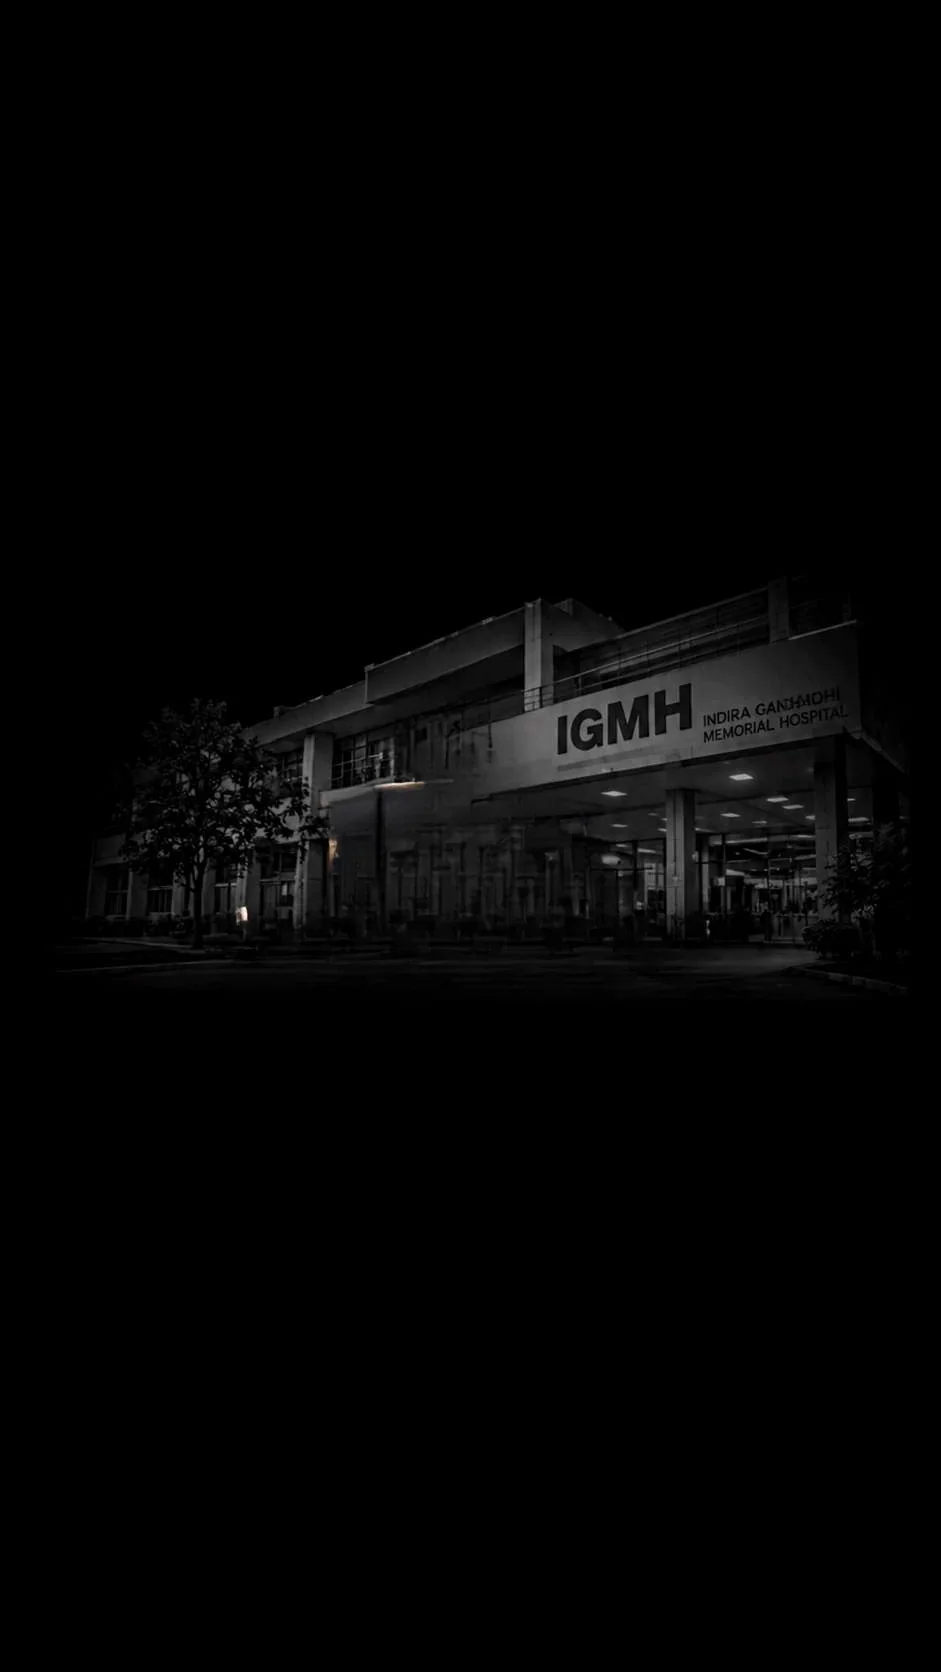
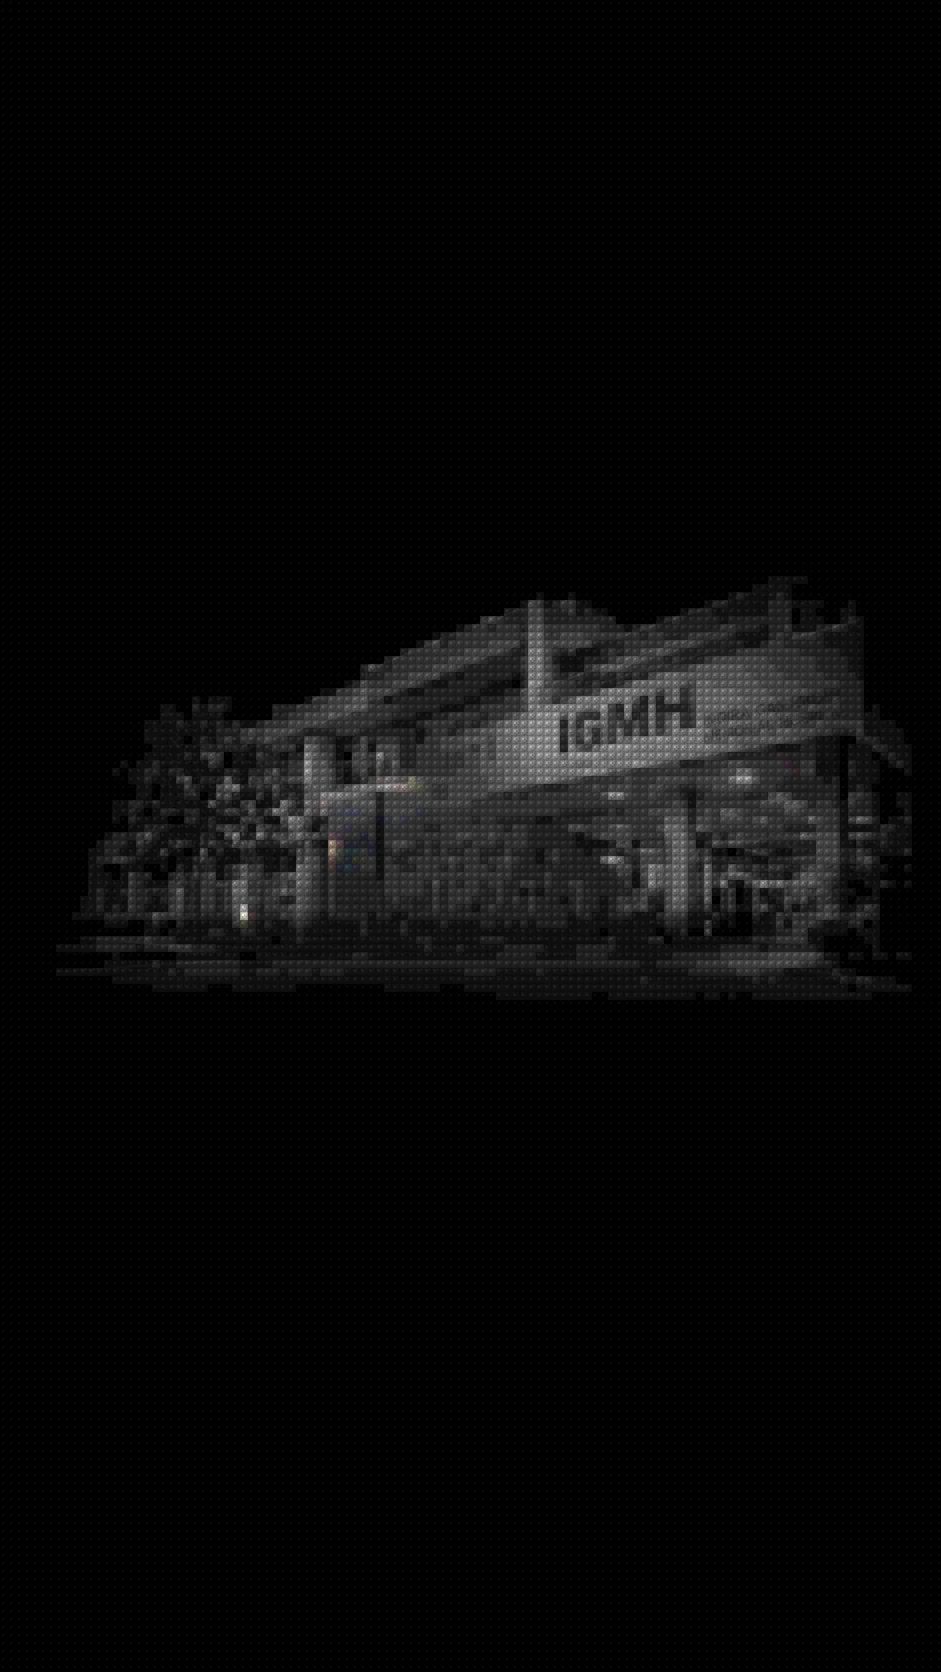
LEGO brick buildings; smoother touch spin
- tools/make_lego.py turns the hospital and IGMH paintings into toy-brick
  mosaics (8 px bricks with bevel and stud, tones lifted and posterised,
  20% of the line work kept so signs stay legible). Originals kept in
  tools/source/*-painted.webp
- Drag-to-spin: the figure eases toward the finger (~70 ms) instead of
  jumping with each uneven touch event
- Version tag 20261020a

Claude-Session: https://claude.ai/code/session_01XUy3x8P5Y6wb7zbr1hpMeT

Changed region(s): [[0.1233, 0.3421, 0.9245, 0.5909]]

diff --git a/index.html b/index.html
@@ -1,5 +1,5 @@
 <!doctype html>
-<html lang="en" data-v="20261019b">
+<html lang="en" data-v="20261020a">
 <head>
   <meta charset="utf-8">
   <meta name="viewport" content="width=device-width, initial-scale=1, viewport-fit=cover">
@@ -18,14 +18,14 @@
   <meta property="og:image:height" content="630">
   <meta name="twitter:card" content="summary_large_image">
 
-  <link rel="icon" href="assets/img/logo.svg?v=20261019b" type="image/svg+xml">
+  <link rel="icon" href="assets/img/logo.svg?v=20261020a" type="image/svg+xml">
 
   <link rel="preconnect" href="https://fonts.googleapis.com">
   <link rel="preconnect" href="https://fonts.gstatic.com" crossorigin>
   <link href="https://fonts.googleapis.com/css2?family=Nunito:wght@700;800&family=Poppins:wght@300;400;600&display=swap" rel="stylesheet">
 
   <!-- ?v= forces browsers to fetch fresh files after an update: bump it on every change -->
-  <link rel="stylesheet" href="styles.css?v=20261019b">
+  <link rel="stylesheet" href="styles.css?v=20261020a">
 </head>
 <body>
 
@@ -44,8 +44,8 @@
 
       <!-- Desktop only: soft blurred copy of the current backdrop so the scene fills 16:9 -->
       <div class="ambient" aria-hidden="true">
-        <img class="amb amb-a" src="assets/img/hospital.webp?v=20261019b" alt="">
-        <img class="amb amb-b" src="assets/img/igmh.webp?v=20261019b" alt="">
+        <img class="amb amb-a" src="assets/img/hospital.webp?v=20261020a" alt="">
+        <img class="amb amb-b" src="assets/img/igmh.webp?v=20261020a" alt="">
       </div>
 
       <!--
@@ -56,29 +56,29 @@
       <div class="stage" aria-hidden="true">
         <!-- Scenes 3–5 : Mission Hospital -->
         <div class="set set-a">
-          <img class="L bg-hosp"   src="assets/img/hospital.webp?v=20261019b"       alt="">
-          <img class="nabh-word"   src="assets/img/nabh-word.svg?v=20261019b"      alt="">
+          <img class="L bg-hosp"   src="assets/img/hospital.webp?v=20261020a"       alt="">
+          <img class="nabh-word"   src="assets/img/nabh-word.svg?v=20261020a"      alt="">
           <div class="sign-glow"><span></span></div>
           <!-- Back-view walk frames (near → far, then looking back over his shoulder) -->
-          <img class="L walk" src="assets/img/walk-1.webp?v=20261019b" alt="">
-          <img class="L walk" src="assets/img/walk-2.webp?v=20261019b" alt="">
-          <img class="L walk" src="assets/img/walk-3.webp?v=20261019b" alt="">
-          <img class="L walk" src="assets/img/walk-4.webp?v=20261019b" alt="">
-          <img class="L walk" src="assets/img/walk-5.webp?v=20261019b" alt="">
+          <img class="L walk" src="assets/img/walk-1.webp?v=20261020a" alt="">
+          <img class="L walk" src="assets/img/walk-2.webp?v=20261020a" alt="">
+          <img class="L walk" src="assets/img/walk-3.webp?v=20261020a" alt="">
+          <img class="L walk" src="assets/img/walk-4.webp?v=20261020a" alt="">
+          <img class="L walk" src="assets/img/walk-5.webp?v=20261020a" alt="">
           <!-- The character: a small puppet rig (legs swing from the hips) plus
                the mask-on frames and the clipboard pose. .hero = acting moves, .breath = idle life. -->
           <div class="L hero">
             <div class="L breath">
               <div class="L pose-stand">
-                <img class="L leg leg-l"  src="assets/img/hero-leg-l.webp?v=20261019b"  alt="">
-                <img class="L leg leg-r"  src="assets/img/hero-leg-r.webp?v=20261019b"  alt="">
-                <img class="L hero-upper" src="assets/img/hero-upper.webp?v=20261019b" alt="">
+                <img class="L leg leg-l"  src="assets/img/hero-leg-l.webp?v=20261020a"  alt="">
+                <img class="L leg leg-r"  src="assets/img/hero-leg-r.webp?v=20261020a"  alt="">
+                <img class="L hero-upper" src="assets/img/hero-upper.webp?v=20261020a" alt="">
               </div>
-              <img class="L maskf" src="assets/img/mask-1.webp?v=20261019b" alt="">
-              <img class="L maskf" src="assets/img/mask-2.webp?v=20261019b" alt="">
-              <img class="L maskf" src="assets/img/mask-3.webp?v=20261019b" alt="">
-              <img class="L maskf" src="assets/img/mask-4.webp?v=20261019b" alt="">
-              <img class="L ch-clip" src="assets/img/char-clipboard.webp?v=20261019b" alt="">
+              <img class="L maskf" src="assets/img/mask-1.webp?v=20261020a" alt="">
+              <img class="L maskf" src="assets/img/mask-2.webp?v=20261020a" alt="">
+              <img class="L maskf" src="assets/img/mask-3.webp?v=20261020a" alt="">
+              <img class="L maskf" src="assets/img/mask-4.webp?v=20261020a" alt="">
+              <img class="L ch-clip" src="assets/img/char-clipboard.webp?v=20261020a" alt="">
             </div>
           </div>
           <!-- 3D avatar lives here while he's at the hospital -->
@@ -92,34 +92,34 @@
         <!-- Scenes 7–8 : NURF Pharmacy, IGMH -->
         <div class="set set-b">
           <div class="L cam"><!-- rises into view as he falls -->
-            <img class="L bg-igmh"   src="assets/img/igmh.webp?v=20261019b"   alt="">
-            <img class="L chair"     src="assets/img/chair.webp?v=20261019b"  alt="">
+            <img class="L bg-igmh"   src="assets/img/igmh.webp?v=20261020a"   alt="">
+            <img class="L chair"     src="assets/img/chair.webp?v=20261020a"  alt="">
             <div class="L host host-d"></div><!-- 3D avatar at his desk -->
-            <div class="L sitter-rig"><img class="L sitter" src="assets/img/sitter.webp?v=20261019b" alt=""></div>
-            <img class="L desk"      src="assets/img/desk.webp?v=20261019b"   alt="">
+            <div class="L sitter-rig"><img class="L sitter" src="assets/img/sitter.webp?v=20261020a" alt=""></div>
+            <img class="L desk"      src="assets/img/desk.webp?v=20261020a"   alt="">
           </div>
         </div>
 
         <!-- Scene 2 : close-up portrait -->
-        <div class="L portrait-wrap"><img class="L portrait" src="assets/img/portrait.webp?v=20261019b" alt=""></div>
+        <div class="L portrait-wrap"><img class="L portrait" src="assets/img/portrait.webp?v=20261020a" alt=""></div>
       </div>
 
       <!-- Scene 6 : the flight to the Maldives -->
       <div class="sky" aria-hidden="true">
         <div class="flight">
           <div class="cloudset">
-            <img class="cloud c1" src="assets/img/cloud-1.webp?v=20261019b" alt="">
-            <img class="cloud c2" src="assets/img/cloud-2.webp?v=20261019b" alt="">
-            <img class="cloud c3" src="assets/img/cloud-3.webp?v=20261019b" alt="">
+            <img class="cloud c1" src="assets/img/cloud-1.webp?v=20261020a" alt="">
+            <img class="cloud c2" src="assets/img/cloud-2.webp?v=20261020a" alt="">
+            <img class="cloud c3" src="assets/img/cloud-3.webp?v=20261020a" alt="">
           </div>
           <div class="craft">
             <div class="bobber">
               <div class="plane">
-                <img src="assets/img/plane-empty.webp?v=20261019b" alt="">
+                <img src="assets/img/plane-empty.webp?v=20261020a" alt="">
                 <span class="prop"><i></i></span>
               </div>
               <div class="host host-p"></div><!-- 3D avatar in the cockpit -->
-              <img class="pilot" src="assets/img/pilot.webp?v=20261019b" alt="Nisham waving from the cockpit of a small aeroplane">
+              <img class="pilot" src="assets/img/pilot.webp?v=20261020a" alt="Nisham waving from the cockpit of a small aeroplane">
             </div>
           </div>
         </div>
@@ -191,7 +191,7 @@
             </mask>
             <circle class="ring-dash" cx="50" cy="50" r="49" mask="url(#ring-mask)"/>
           </svg>
-          <div class="avatar"><img src="assets/img/avatar.webp?v=20261019b" alt="Portrait of Nisham Sajjad"></div>
+          <div class="avatar"><img src="assets/img/avatar.webp?v=20261020a" alt="Portrait of Nisham Sajjad"></div>
 
           <!--
             SOCIAL LINKS
@@ -230,12 +230,12 @@
     </section>
   </main>
 
-  <script src="assets/vendor/gsap.min.js?v=20261019b"></script>
-  <script src="assets/vendor/ScrollTrigger.min.js?v=20261019b"></script>
-  <script src="assets/vendor/lenis.min.js?v=20261019b"></script>
-  <script src="script.js?v=20261019b"></script>
+  <script src="assets/vendor/gsap.min.js?v=20261020a"></script>
+  <script src="assets/vendor/ScrollTrigger.min.js?v=20261020a"></script>
+  <script src="assets/vendor/lenis.min.js?v=20261020a"></script>
+  <script src="script.js?v=20261020a"></script>
   <!-- 3D avatar (three.js). Without WebGL the illustrated 2D character plays instead. -->
   <script type="importmap">{"imports":{"three":"./assets/vendor/three/three.module.min.js","three/addons/":"./assets/vendor/three/addons/"}}</script>
-  <script type="module" src="assets/js/hero3d.js?v=20261019b"></script>
+  <script type="module" src="assets/js/hero3d.js?v=20261020a"></script>
 </body>
 </html>

diff --git a/assets/js/hero3d.js b/assets/js/hero3d.js
@@ -568,14 +568,14 @@ async function boot() {
   // the finger counts while it's down and for a moment after.
   const RM = matchMedia('(prefers-reduced-motion: reduce)').matches;
   const ptr = { x: 0, y: 0, t: -1e9 };
-  const spin = { a: 0, v: 0, drag: false, lastX: 0, lastT: 0, released: -1e9 };
+  const spin = { a: 0, target: 0, v: 0, drag: false, lastX: 0, lastT: 0, released: -1e9 };
   const now = () => performance.now() / 1000;
   addEventListener('pointermove', (e) => {
     ptr.x = e.clientX; ptr.y = e.clientY; ptr.t = now();
     if (spin.drag && e.pointerId === spin.id) {
       const t = now(), dx = e.clientX - spin.lastX;
       const da = dx * 0.012;                                   // ~half a turn across a phone screen
-      spin.a += da;
+      spin.target += da;                                       // the figure glides after the finger (spinStep)
       spin.v = THREE.MathUtils.lerp(spin.v, da / Math.max(t - spin.lastT, 1 / 120), 0.5);
       spin.lastX = e.clientX; spin.lastT = t;
     }
@@ -592,7 +592,7 @@ async function boot() {
       document.documentElement.classList.add('grabbing');
       return;
     }
-    Object.assign(spin, { drag: true, id: e.pointerId, lastX: e.clientX, lastT: now(), v: 0 });
+    Object.assign(spin, { drag: true, id: e.pointerId, lastX: e.clientX, lastT: now(), v: 0, target: spin.a });
     document.documentElement.classList.add('spinning');
   });
   // a finger on him holds him instead of scrolling the page
@@ -616,7 +616,12 @@ async function boot() {
   addEventListener('pointercancel', endDrag);      // e.g. the browser took over for a vertical scroll
   // free spin with momentum, then he turns back to face his scene
   function spinStep(dt) {
-    if (spin.drag || dt <= 0) return spin.a;
+    if (dt <= 0) return spin.a;
+    if (spin.drag) {
+      // touch events arrive unevenly; ease toward the finger (~70 ms) so the turn glides
+      spin.a += (spin.target - spin.a) * (1 - Math.exp(-dt / 0.07));
+      return spin.a;
+    }
     spin.a += spin.v * dt;
     spin.v *= Math.exp(-dt * 3.2);
     if (now() - spin.released > 0.5 && Math.abs(spin.v) < 1.2) {

diff --git a/tools/make_lego.py b/tools/make_lego.py
@@ -1,0 +1,80 @@
+"""
+Rebuild the painted backgrounds as toy-brick mosaics: every TILE×TILE block
+becomes one 1×1 plastic brick (its average colour, slightly lifted and
+posterised like moulded plastic) with a bevelled edge and a raised stud.
+
+  python tools/make_lego.py
+
+Reads the original paintings from tools/source/*-painted.webp and writes
+assets/img/hospital.webp and assets/img/igmh.webp (same 941×1672 canvas,
+so every layer on top still lines up).
+"""
+import os
+import numpy as np
+from PIL import Image, ImageDraw, ImageFilter
+
+HERE = os.path.dirname(__file__)
+TILE = 8                     # px per brick on the 941-wide canvas (~118 bricks across)
+DETAIL = 0.2                 # how much of the painting's line work shows inside each brick
+JOBS = [("hospital-painted.webp", "hospital.webp"), ("igmh-painted.webp", "igmh.webp")]
+
+
+def brick_sprite(t, ss=4):
+    """Shading for one brick (multiplicative light map), drawn large then downsampled."""
+    s = t * ss
+    light = Image.new("L", (s, s), 128)
+    d = ImageDraw.Draw(light)
+    e = max(1, int(s * 0.07))
+    # bevel: lit top/left edges, shaded bottom/right, dark gap between bricks
+    d.rectangle([0, 0, s - 1, s - 1], fill=92)
+    d.rectangle([e, e, s - 1 - e, s - 1 - e], fill=128)
+    d.polygon([(e, e), (s - e, e), (s - 2 * e, 2 * e), (2 * e, 2 * e)], fill=150)
+    d.polygon([(e, e), (2 * e, 2 * e), (2 * e, s - 2 * e), (e, s - e)], fill=145)
+    d.polygon([(s - e, e), (s - e, s - e), (s - 2 * e, s - 2 * e), (s - 2 * e, 2 * e)], fill=110)
+    d.polygon([(e, s - e), (s - e, s - e), (s - 2 * e, s - 2 * e), (2 * e, s - 2 * e)], fill=105)
+    # stud: a raised disc with a soft shadow, a lit rim and a highlight
+    r = s * 0.29
+    c = s / 2
+    sh = Image.new("L", (s, s), 0)
+    ImageDraw.Draw(sh).ellipse([c - r + e * 0.6, c - r + e * 1.2, c + r + e * 0.6, c + r + e * 1.2], fill=255)
+    sh = sh.filter(ImageFilter.GaussianBlur(s * 0.03))
+    light = Image.composite(Image.new("L", (s, s), 84), light, sh)
+    d = ImageDraw.Draw(light)
+    d.ellipse([c - r, c - r, c + r, c + r], fill=128)
+    d.arc([c - r, c - r, c + r, c + r], 160, 340, fill=175, width=max(1, int(s * 0.06)))
+    d.arc([c - r, c - r, c + r, c + r], 340, 160, fill=96, width=max(1, int(s * 0.06)))
+    hr = r * 0.32
+    d.ellipse([c - r * 0.45 - hr, c - r * 0.45 - hr, c - r * 0.45 + hr, c - r * 0.45 + hr], fill=190)
+    light = light.resize((t, t), Image.LANCZOS)
+    return np.asarray(light, np.float32) / 128.0
+
+
+def mosaic(src):
+    im = Image.open(src).convert("RGB")
+    W, H = im.size
+    gw, gh = -(-W // TILE), -(-H // TILE)
+    small = im.resize((gw, gh), Image.BOX)
+    a = np.asarray(small, np.float32) / 255
+    # moulded plastic: a little contrast and lift, posterised to a brick palette
+    # brick colours: averaged, then lifted (the paintings are dark line art) and
+    # posterised a little, like a set of moulded plastic tones
+    a = np.clip(a, 0, 1) ** 0.72
+    a = np.round(a * 15) / 15
+    big = np.repeat(np.repeat(a, TILE, 0), TILE, 1)[:H, :W]
+    orig = (np.asarray(im, np.float32) / 255) ** 0.72
+    big = big * (1 - DETAIL) + orig * DETAIL
+    shade = np.tile(brick_sprite(TILE), (gh, gw))[:H, :W, None]
+    out = np.clip(big * shade + (shade - 1).clip(0) * 0.12, 0, 1)
+    return Image.fromarray((out * 255).astype(np.uint8))
+
+
+def main():
+    for src, dst in JOBS:
+        img = mosaic(os.path.join(HERE, "source", src))
+        out = os.path.join(HERE, "..", "assets", "img", dst)
+        img.save(out, "WEBP", quality=86, method=6)
+        print("wrote", out, img.size, os.path.getsize(out) // 1024, "KB")
+
+
+if __name__ == "__main__":
+    main()

diff --git a/README.md b/README.md
@@ -72,7 +72,7 @@ Between moments he is never frozen: idle, piloting and sitting loops keep runnin
 - **Choreography:** his acting is tweened on the shared `act` timeline (the `S3D` object in `script.js`), so it stays in sync with the props and plays backwards when scrolling up. Scrolling past several scenes at once jumps straight to the latest moment, and scrolling back rewinds quickly, so props from one scene never linger on another page.
 - **Face:** natural random blinks (the eyelids roll down), and a smile that curves the mouth and lifts the brows: after landing, on his mark, at the keyboard, and for goodbye. Under the surgical mask the nose, mouth and moustache are hidden so nothing pokes through.
 - **Hands:** the mask and the clipboard use an anatomical two-bone IK solver: the elbow is treated as a hinge, and the upper arm twists so the elbow only ever bends the natural way. Each hand follows one smooth spline path (centripetal Catmull-Rom) through waypoints that move with his body, and the elbow direction blends continuously, so the reach flows like a real one (`handsHospital`).
-- **He reacts to you:** his head (with a little neck and chest) turns to follow the cursor, or your finger on a phone, as if you were just in front of the screen. Drag sideways, with the mouse or a finger, to spin him around; he keeps the momentum, then turns back to his scene. Vertical swipes still scroll. With a mouse, the painted backgrounds drift slightly against the cursor. All of this stands down while his hands are busy, and is off with reduced motion (`lookAtPointer`, `spinStep` in `hero3d.js`).
+- **He reacts to you:** his head (with a little neck and chest) turns to follow the cursor, or your finger on a phone, as if you were just in front of the screen. Drag sideways, with the mouse or a finger, to spin him around (he glides after your finger, ~70 ms, instead of following each uneven touch event); he keeps the momentum, then turns back to his scene. Vertical swipes still scroll. With a mouse, the painted backgrounds drift slightly against the cursor. All of this stands down while his hands are busy, and is off with reduced motion (`lookAtPointer`, `spinStep` in `hero3d.js`).
 - **He's physical:** press on him and pull, and he leans toward your pointer or finger and stretches; let go and he wobbles back like jelly. A quick tap squashes him and he bounces back with a smile. His head lags a little behind sudden moves (landings, turns). The springs run on a fixed 60 Hz step split into 4 substeps, so the motion is identical at any frame rate (`respond`, `physics` in `hero3d.js`). A finger on him holds him instead of scrolling; anywhere else, swipes scroll and sideways drags spin him.
 - **Fallback:** without WebGL, or if the 3D files fail to load within 15 s, the illustrated 2D character plays instead.
 - **Tuning:** placements are in `hero3d.js` (`MARK`, `P0` (where he lands), `SEAT`, `COCKPIT`, `MASK_FIT`). Timings are in the `S3D` block of `script.js`.
@@ -96,6 +96,8 @@ Between moments he is never frozen: idle, piloting and sitting loops keep runnin
 - **Final round photo:** `tools/make_avatar.py` crops `tools/source/photo.webp` (cyan backdrop kept) into `assets/img/avatar.webp`.
 
 ## Artwork
+
+**LEGO buildings:** the Mission Hospital and IGMH backgrounds are toy-brick mosaics made by `tools/make_lego.py` from the original paintings (kept in `tools/source/*-painted.webp`): every 8×8 px block becomes one plastic brick with a bevel and a raised stud, with a little of the painting's line work kept so signs stay readable. Re-run it after changing `TILE` (brick size) or `DETAIL`.
 
 All images live in `assets/img/`. The storyboard pages were flat images, so `tools/extract_assets.py` cut them into layers:
 
